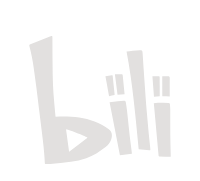
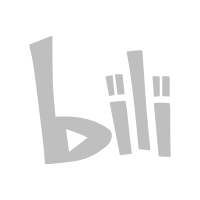
v2

Changed region(s): [[0.15, 0.1657, 0.87, 0.9116]]

diff --git a/index.html b/index.html
@@ -104,7 +104,7 @@
                   	<!-- Bilibili -->
                     <li class="navigation__item">
                       <a href="https://space.bilibili.com/18936431" target="_blank">
-                      	<img src="images/bili2.png" height="23">
+                      	<img src="images/bili1.png" height="23">
                         <span class="label">Bilibili</span>
                       </a>
                     </li>
